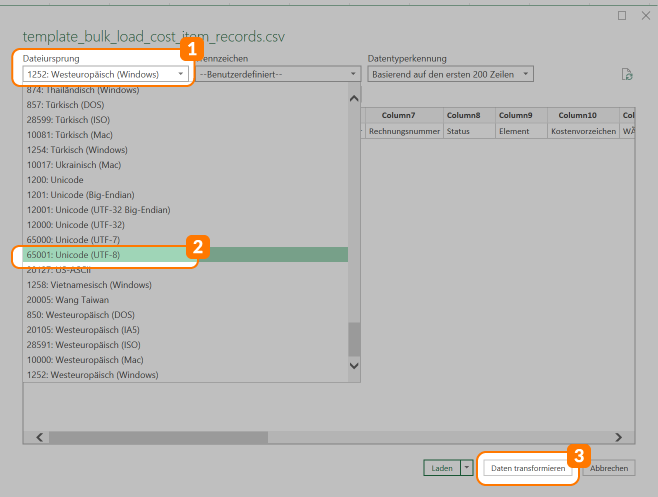
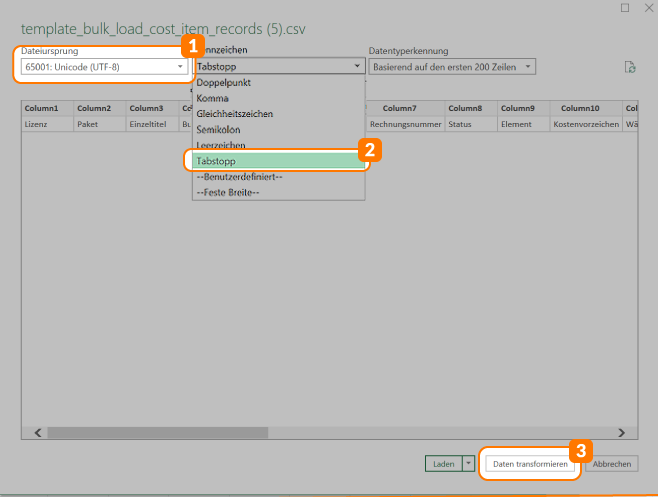
ERMS-6089

diff --git a/src/main/resources/manual/financeImport.md b/src/main/resources/manual/financeImport.md
@@ -9,8 +9,9 @@ Nachfolgend eine Anleitung, wie Sie die Tabelle mit Excel befüllen können.
 * Suchen Sie im sich öffnenden Menü den Eintrag "Aus Text/CSV".
 ![financeupload_2.png]({{url_laser_static}}/media/finance/financeupload_2.png)
 -------------------------
-1. Laden Sie jetzt die Beispiel-Vorlagendatei.
-2. Stellen Sie im sich jetzt öffnenden Fenster im Menüfeld "Dateiursprung" die Zeichenkodierung auf "65001: Unicode (UTF-8)".
+* Laden Sie jetzt die Beispiel-Vorlagendatei.
+1. Stellen Sie im sich jetzt öffnenden Fenster im Menüfeld "Dateiursprung" die Zeichenkodierung auf "65001: Unicode (UTF-8)".
+2. Stellen Sie die Trennzeichen auf "Tabstopp".
 3. Klicken Sie anschließend auf "Daten transformieren".
 ![financeupload_3.png]({{url_laser_static}}/media/finance/financeupload_3.png)
 -------------------------
